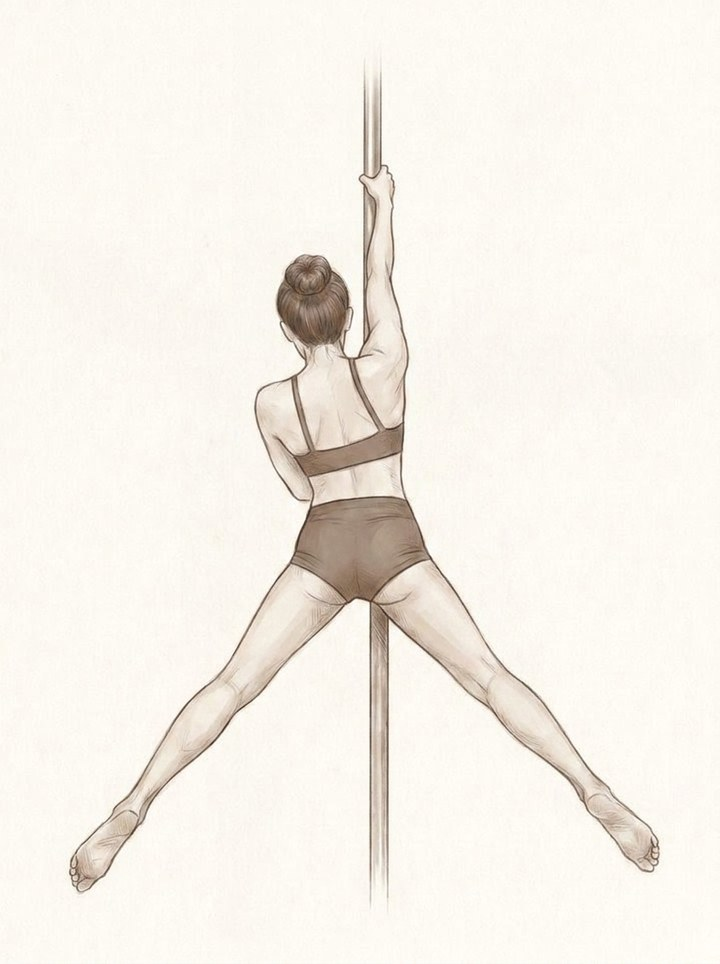
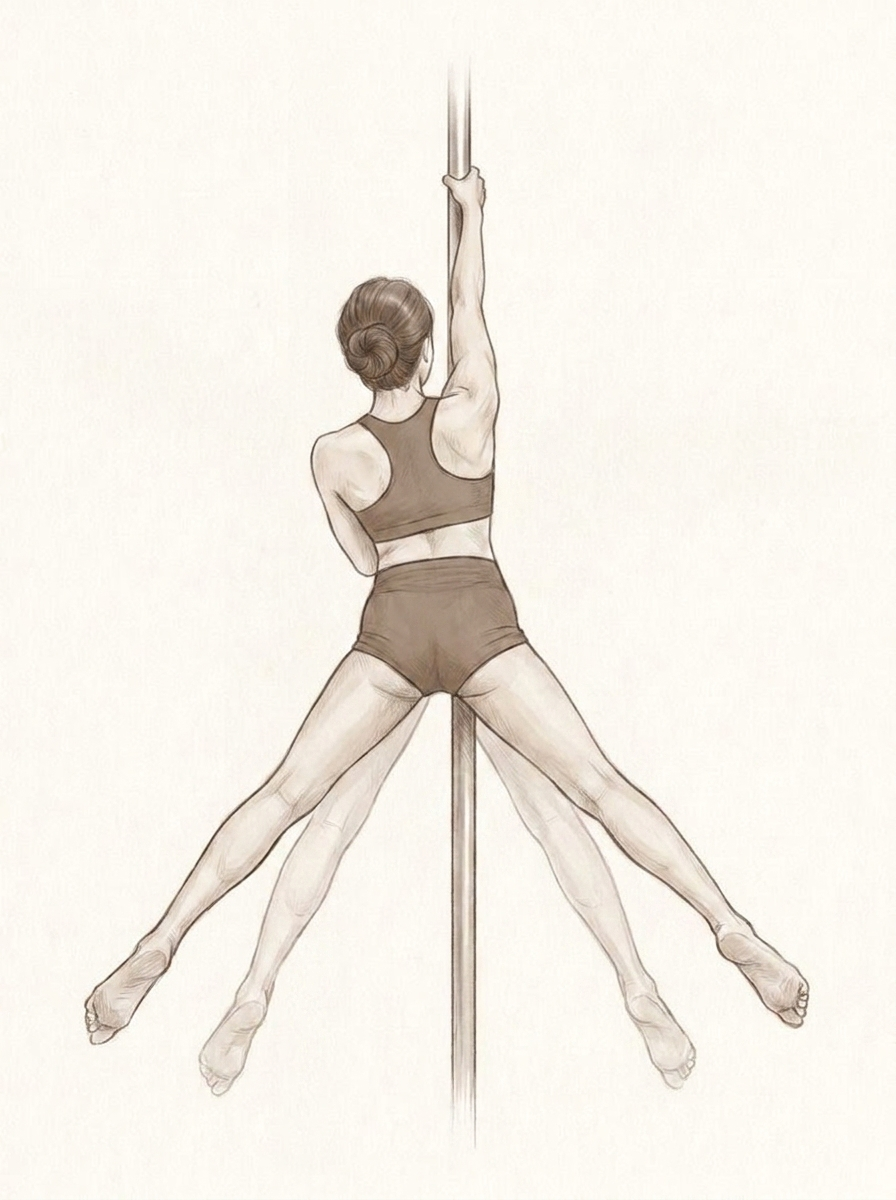
feat(quick-260821-gb7): 승인 잔상 그림(exq stage20-1) 배선 + illustrationHow baked 형
- 에셋 교체: belle 08-21 승인 바이트 무재인코딩 (md5 = 원본, 896x1200)
- HowAnchors/HowOverlay 판별 union: rotate(로직 무변경 보존) / baked(화살표 앵커만)
- baked 좌표 = fe9 meta.json 비율 환산, ctrl = 중점 + compose_b offset
- 장면 표: ref-kip-up × leg → ref-kip-up--leg, provenance 승인 사실로 갱신
- fail-closed 게이트(asset/unit/finite/delta<3)는 두 kind 공통 유지

Changed region(s): [[0.0917, 0.0622, 0.9167, 0.9336]]

diff --git a/app/src/lib/illustrationHow.ts b/app/src/lib/illustrationHow.ts
@@ -1,16 +1,20 @@
-// "어떻게" 일러스트 오버레이 — 앵커 데이터 + 순수 계산 (quick-260818-nnm).
+// "어떻게" 일러스트 오버레이 — 앵커 데이터 + 순수 계산 (quick-260818-nnm · quick-260821-gb7).
 //
 // belle 2026-08-18 결정: 일러스트의 역할은 확대 비교(사진)를 다시 그리는 것이 아니라
-// **방법**을 보여주는 것이다. 그림 파일에는 정은지 완벽 자세만 있고(표시 0), 아래 셋은
-// 앱이 학생 값으로 그린다:
-//   · 잔상 = 그림 속 정은지 다리를 골반 기준으로 학생 각도만큼 돌려 연하게 얹은 것
-//            (선이 아니라 다리 픽셀 — belle "사마귀 다리냐". 길이·굵기·선 스타일이 실선과 같다)
+// **방법**을 보여주는 것이다. 앱이 학생 값으로 그리는 것:
 //   · 화살표 = 잔상 발 → 실선 발 (시작점이 정의상 "지금 내 자리")
 //   · 표기 = 값이 있으면 방향으로: "50° 정도 더 벌리세요". 상태("좁아요") 금지.
-//            값이 없으면 잔상·화살표·표기 전부 그리지 않는다 — 모르면 안 그린다.
+//            값이 없으면 화살표·표기를 그리지 않는다 — 모르면 안 그린다.
 //
-// 왜 잔상까지 앱이 그리나: 잔상 각도는 학생마다 다르다. 그림에 구우면 어떤 학생에게도
-// 안 맞는다(첫 생성본이 다리를 완전히 붙여버린 이유). 앱이 그리면 "지금"이 진짜 내 자리다.
+// belle 2026-08-21 결정 (quick-260821-gb7, BELLE-0821-1~4): 잔상은 **그림에 구워진**
+// 승인 에셋을 쓴다 — exq stage20-1 (보드 실물 3회 확인, 896x1200). 잔상을 앱이
+// 회전복사로 그리는 rotate 방식은 이 에셋에서 비활성이다: 잔상이 이미 그림 안에
+// 있으므로 clip/pivot/회전 재료가 필요 없고, 앱은 화살표 2개(잔상 발 → 같은 쪽
+// 실선 발)와 수치 문장만 그린다(B 방식). 겉모습 원본 =
+// `.planning/quick/260821-fe9-20-a-vs-b/out/ref-kip-up--leg__B-overlay20-1.png`
+// (compose_b.py 가 만든 승인 실물 — 화살표 기하를 그대로 이식).
+// 그래서 앵커는 판별 union 이다: kind 'rotate'(종전 기계, 로직 무변경 보존) /
+// kind 'baked'(화살표 앵커만). 한 에셋에 앵커는 한 벌만.
 //
 // 이 파일은 순수 데이터 + 순수 함수만 — require('*.jpg') 도 RN 도 없어서 node --test 로
 // 검증 가능(illustrationScene 의 P-5 선례). 그리기는 DefectIllustration 이 한다.
@@ -35,7 +39,9 @@ export interface HowLimb {
   readonly inwardSign: 1 | -1;
 }
 
-export interface HowAnchors {
+/** 잔상을 앱이 회전복사로 그리는 에셋용 (quick-260818-nnm 원형). */
+export interface HowAnchorsRotate {
+  readonly kind: 'rotate';
   /** 사지들. 스트래들은 다리 2개, 팔꿈치 하나면 1개. */
   readonly limbs: readonly HowLimb[];
   /** 각 사지 회전량 = 총 각도 차이 × share. 좌우 대칭 스트래들이면 0.5/0.5. */
@@ -54,41 +60,54 @@ export interface HowAnchors {
   readonly nowLabelOffsetY: number;
 }
 
+/** 화살표 1개의 앵커 — 잔상이 그림에 구워진 에셋용 (belle 08-21). */
+export interface HowArrowAnchor {
+  /** 시작 = 그림에 구워진 잔상의 발 ("지금 내 자리"). */
+  readonly from: Frac;
+  /** 끝 = 같은 쪽 실선(정은지) 발. */
+  readonly to: Frac;
+  /** quadratic bezier 제어점 = from·to 중점 + 이 offset (compose_b.py 기하). */
+  readonly ctrlOffset: Frac;
+}
+
 /**
- * 에셋 키 → 앵커. 없는 에셋은 오버레이를 그리지 않는다(종전 그림 그대로).
- * ref-kip-up--leg: 08-18 solid1 (896x1200 → 720x964 리사이즈, 비율 동일) 에서 실측.
+ * 잔상이 그림에 구워진 에셋용 (belle 08-21, BELLE-0821-4). 회전복사 재료
+ * (clip/pivot/inwardSign/shares/frontClip/nowLabelOffsetY)가 **없다** — 잔상이
+ * 이미 그림 안에 있으므로 앱은 화살표·문장만 그린다.
+ */
+export interface HowAnchorsBaked {
+  readonly kind: 'baked';
+  readonly arrows: readonly HowArrowAnchor[];
+  /** 방향 문장 틀 — rotate 와 같은 규약 ("좁다" 금지, BELLE-0821-3). */
+  readonly directionSentence: string;
+}
+
+export type HowAnchors = HowAnchorsRotate | HowAnchorsBaked;
+
+/**
+ * 에셋 키 → 앵커. 없는 에셋은 오버레이를 그리지 않는다(그림만 표시).
+ *
+ * ref-kip-up--leg (belle 08-21 승인 — exq stage20-1, 896x1200):
+ *   발 좌표 = fe9 meta.json 절대픽셀의 0~1 환산 (PLAN 확정값, 재계산 금지):
+ *     ghostL (213,1043) / solidL (110,1015) / ghostR (645,1035) / solidR (742,990)
+ *   ctrl offset = 중점 + (좌 -8px, 우 +8px, 공통 +46px) 의 비율 환산.
+ *   구 rotate 앵커(08-18 solid1 720x964 실측)는 새 그림에 무효라 폐기 —
+ *   한 에셋에 앵커 두 벌 금지.
  */
 export const HOW_ANCHORS: Readonly<Record<string, HowAnchors>> = {
   'ref-kip-up--leg': {
-    limbs: [
-      {
-        pivot: [0.5, 0.615],
-        tip: [0.115, 0.905],
-        clip: [
-          [0.485, 0.62], [0.38, 0.61], [0.22, 0.72], [0.02, 0.88],
-          [0.02, 0.99], [0.22, 0.99], [0.4, 0.8], [0.485, 0.71],
-        ],
-        inwardSign: -1,
-      },
-      {
-        pivot: [0.5, 0.615],
-        tip: [0.885, 0.905],
-        clip: [
-          [0.515, 0.62], [0.62, 0.61], [0.78, 0.72], [0.98, 0.88],
-          [0.98, 0.99], [0.78, 0.99], [0.6, 0.8], [0.515, 0.71],
-        ],
-        inwardSign: 1,
-      },
+    kind: 'baked',
+    arrows: [
+      { from: [0.2377, 0.8692], to: [0.1228, 0.8458], ctrlOffset: [-0.0089, 0.0383] },
+      { from: [0.7199, 0.8625], to: [0.8281, 0.825], ctrlOffset: [0.0089, 0.0383] },
     ],
-    shares: [0.5, 0.5],
-    frontClip: [[0.478, 0], [0.522, 0], [0.522, 1], [0.478, 1]],
     directionSentence: '{n}° 정도 더 벌리세요',
-    nowLabelOffsetY: 0.03,
   },
 };
 
-/** 화면에 그릴 준비가 끝난 오버레이 1건. 좌표는 전부 비율(0~1) — 소비처가 픽셀로 곱한다. */
-export interface HowOverlay {
+/** rotate 오버레이 — 잔상 회전복사 + 직선 화살표 + "지금" (quick-260818-nnm 원형). */
+export interface HowOverlayRotate {
+  readonly kind: 'rotate';
   readonly deltaDeg: number;
   readonly directionText: string;
   readonly limbs: readonly {
@@ -105,6 +124,18 @@ export interface HowOverlay {
   /** "지금" 표기 위치. */
   readonly nowLabel: Frac;
 }
+
+/** baked 오버레이 — 곡선 화살표 + 문장만 (belle 08-21, 승인 실물 B-overlay20-1 겉모습). */
+export interface HowOverlayBaked {
+  readonly kind: 'baked';
+  readonly deltaDeg: number;
+  readonly directionText: string;
+  /** quadratic bezier: M from Q ctrl to. ctrl 계산은 이 lib 이 소유한다. */
+  readonly arrows: readonly { readonly from: Frac; readonly ctrl: Frac; readonly to: Frac }[];
+}
+
+/** 화면에 그릴 준비가 끝난 오버레이 1건. 좌표는 전부 비율(0~1) — 소비처가 픽셀로 곱한다. */
+export type HowOverlay = HowOverlayRotate | HowOverlayBaked;
 
 /** 비율 좌표를 픽셀 비(aspect = H/W)를 고려해 회전. 반환은 다시 비율. */
 function rotateFrac(p: Frac, c: Frac, deg: number, aspect: number): Frac {
@@ -123,6 +154,7 @@ function rotateFrac(p: Frac, c: Frac, deg: number, aspect: number): Frac {
  *   - unit 이 'deg' 가 아님
  *   - measured/target 중 하나라도 없음
  *   - 차이가 3° 미만 — 잔상이 실선과 겹쳐 보이지 않는다
+ * (fail-closed 게이트는 rotate/baked 두 kind 공통 — null 이어도 그림 자체는 표시된다.)
  *
  * 차이 = |measured − target|. record 의 수치는 두 모양이 있다 — 절대각(94°→71°) 또는
  * **기준 대비 차이**(50°→0°, kip-up split_angle 실측 배지). 어느 쪽이든 "얼마나"는 절대값이고,
@@ -146,6 +178,24 @@ export function buildHowOverlay(
   const delta = Math.abs(target - measured);
   if (delta < 3) return null;
   const n = Math.round(delta);
+  const directionText = a.directionSentence.replace('{n}', String(n));
+
+  if (a.kind === 'baked') {
+    // 잔상은 그림에 구워져 있다 — 화살표 좌표만 계산 (ctrl = 중점 + offset).
+    return {
+      kind: 'baked',
+      deltaDeg: n,
+      directionText,
+      arrows: a.arrows.map((ar) => ({
+        from: ar.from,
+        ctrl: [
+          (ar.from[0] + ar.to[0]) / 2 + ar.ctrlOffset[0],
+          (ar.from[1] + ar.to[1]) / 2 + ar.ctrlOffset[1],
+        ] as const,
+        to: ar.to,
+      })),
+    };
+  }
 
   const limbs = a.limbs.map((limb, i) => {
     const rot = limb.inwardSign * delta * (a.shares[i] ?? 0);
@@ -160,8 +210,9 @@ export function buildHowOverlay(
   const gx = limbs.reduce((s, l) => s + l.ghostTip[0], 0) / limbs.length;
   const gy = Math.max(...limbs.map((l) => l.ghostTip[1]));
   return {
+    kind: 'rotate',
     deltaDeg: n,
-    directionText: a.directionSentence.replace('{n}', String(n)),
+    directionText,
     limbs,
     frontClip: a.frontClip,
     nowLabel: [gx, Math.min(0.96, gy + a.nowLabelOffsetY)],

diff --git a/app/src/lib/illustrationScene.ts b/app/src/lib/illustrationScene.ts
@@ -111,12 +111,12 @@ export const ILLUSTRATION_SCENES: readonly IllustrationScene[] = [
   {
     motionId: 'ref-kip-up',
     parts: ['leg'],
-    // quick-260818-nnm — "어떻게" 에셋(ref-kip-up--leg, 앱 오버레이)은 belle 미승인
-    // ("그림이 이게 아닌데") → 08-09 검수본 유지. 오버레이 코드는 남기되 이 매핑이
-    // 검수본을 가리키는 한 HOW_ANCHORS 에 키가 없어 그림만 그린다(fail-closed).
-    asset: 'ref-kip-up',
+    // quick-260821-gb7 — belle 08-21 승인: 잔상 포함 "어떻게" 그림(exq stage20-1)으로
+    // 교체 배선 (BELLE-0821-1). 화살표·수치 문장은 그림이 아니라 앱이 그린다 —
+    // HOW_ANCHORS['ref-kip-up--leg'] (kind 'baked'). 측정값 없으면 그림만 (fail-closed).
+    asset: 'ref-kip-up--leg',
     provenance:
-      '33-14 입력 3.75s (등면 와이드 스트래들 + 양 무릎 신전) · 검수 PASS 세부 = 선 2줄 곧음 · 실물 열람 = 좌·우 다리에 각각 붉은 직선(골반→무릎→발목), 든 팔·어깨 표시 없음. 정직 노트의 그립 팔 좌우 반전은 UNVERIFIED 축이라 팔 토큰 근거가 되지 않는다',
+      'belle 08-21 승인(상태 보드 실물 3회 확인) — exq stage20-1 잔상 포함 그림(896x1200) · 실물 열람 = 좌·우 다리 잔상(연함)→실선(진함) 벌림이 주제, 어깨·팔 표시 없음 · 화살표·수치 문장은 앱 렌더(fe9 B-overlay20-1 승인 실물의 겉모습, compose_b.py 기하 이식)',
   },
   {
     motionId: 'ref-climb',
